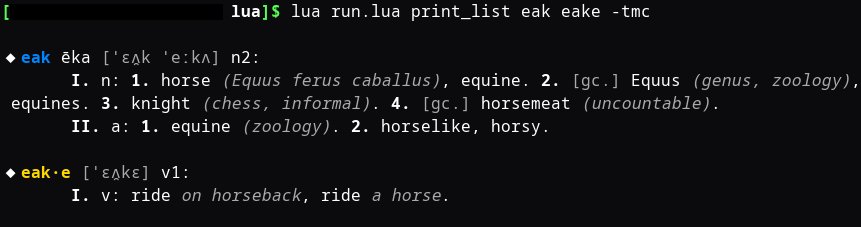
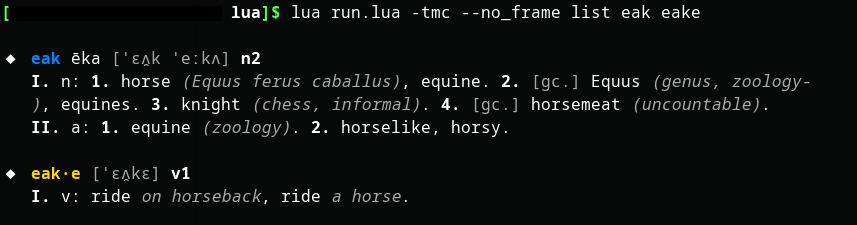
fixed bug in listVIEW and updated readme.md

diff --git a/README.md b/README.md
@@ -26,6 +26,7 @@ Currently implemented features include:
   - nominal declension paradigms
   - compound entries
 - configurable dictionary-style terminal output
+- configurable entry-summary terminal output
 - alphabetical sorting using a custom language-specific alphabet
 - sorting by arbitrary linguistic categories
 - automatic categorisation based on directory structure
@@ -61,7 +62,7 @@ The repository contains a small bundled example dictionary.
 After cloning the repository, simply run
 
 ```bash
-lua run.lua print_all -tmc
+lua run.lua list :all -tmc
 ```
 
 to generate a formatted dictionary listing.
